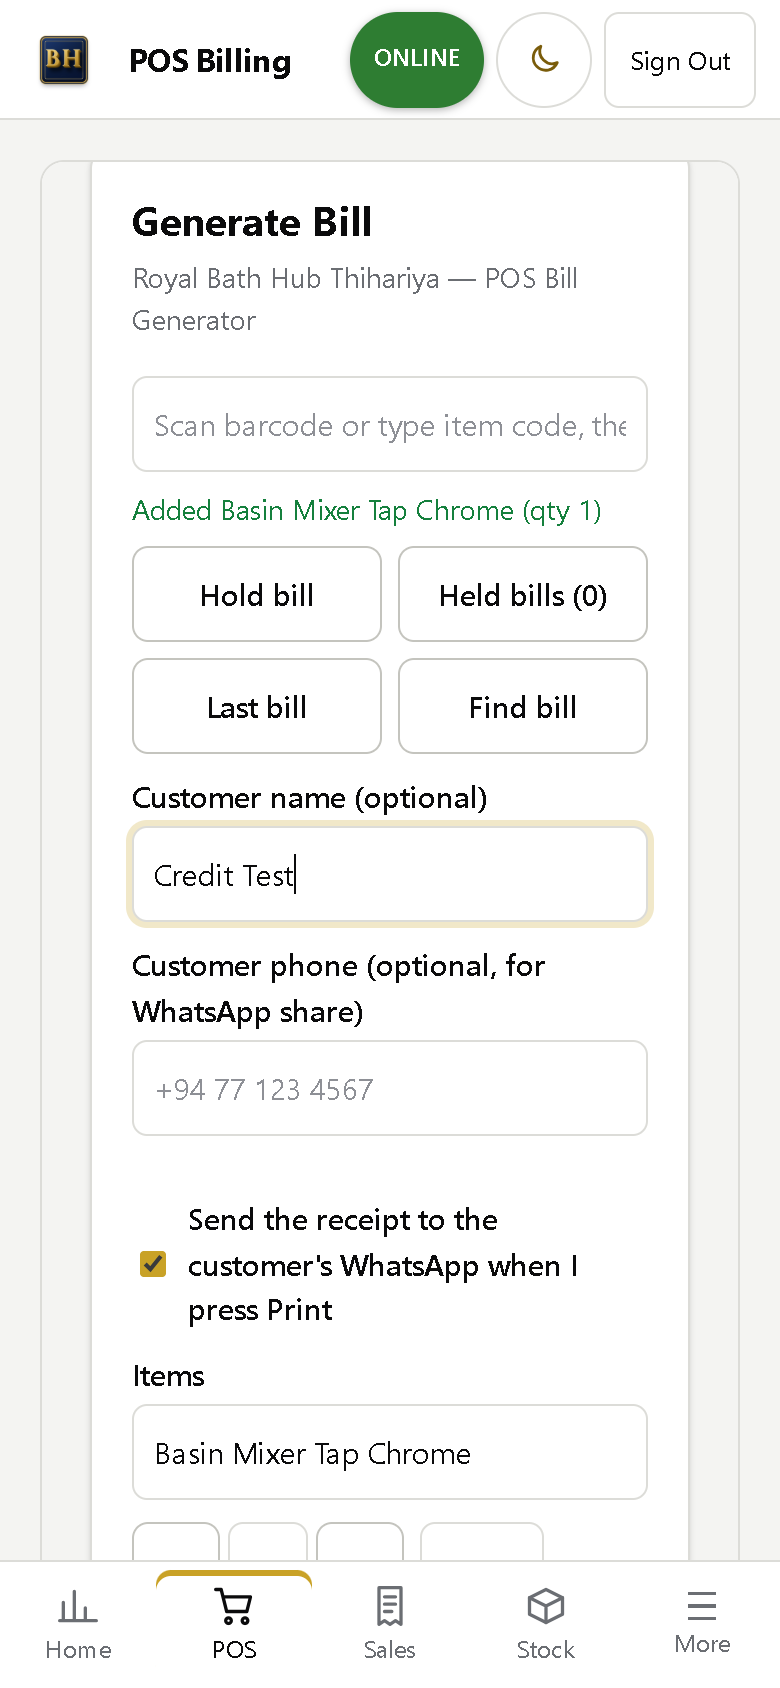
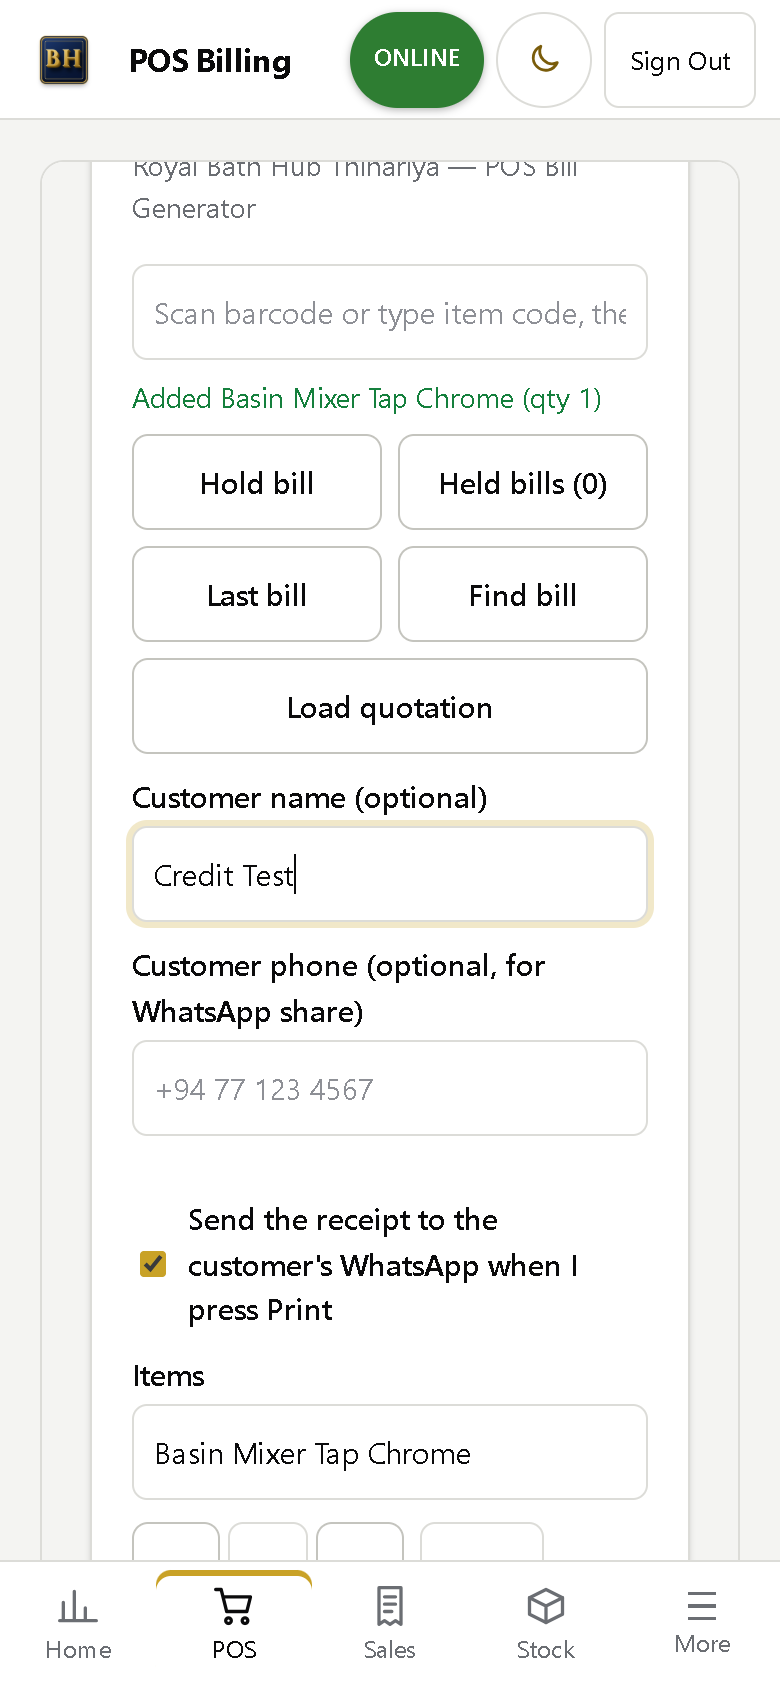
POS Part C: load a quotation into the cart (read only); records for the POS build queue

diff --git a/public/pos_billing.html b/public/pos_billing.html
@@ -152,15 +152,20 @@
     <div class="sub">Royal Bath Hub Thihariya — POS Bill Generator</div>
 
     <div class="pos-tools" id="posTools">
-      <div class="scan-row"><input type="text" id="scanBox" placeholder="Scan barcode or type item code, then Enter" autocomplete="off" aria-label="Scan barcode"></div>
+      <div class="scan-row"><input type="text" id="scanBox" placeholder="Scan barcode or type code + Enter" autocomplete="off" aria-label="Scan barcode"></div>
       <div class="scan-msg" id="scanMsg" role="status"></div>
       <div class="tool-row">
         <button type="button" id="holdBtn" onclick="holdBill()">Hold bill</button>
         <button type="button" id="heldBtn" onclick="toggleTool('heldPanel')">Held bills (0)</button>
         <button type="button" id="lastBtn" onclick="openLastBill()">Last bill</button>
         <button type="button" id="findBtn" onclick="toggleTool('findPanel')">Find bill</button>
+        <button type="button" id="quoteBtn" onclick="toggleTool('quotePanel')">Load quotation</button>
       </div>
       <div class="tool-panel" id="heldPanel"></div>
+      <div class="tool-panel" id="quotePanel">
+        <div class="find-row"><input type="text" id="quoteBox" placeholder="Filter by quote number or customer" autocomplete="off"></div>
+        <div id="quoteResults"></div>
+      </div>
       <div class="tool-panel" id="findPanel">
         <div class="find-row"><input type="text" id="findBox" placeholder="Bill number, e.g. 0007 or BHT-20261009-0007" autocomplete="off"><button type="button" class="mini-btn" onclick="findBills()">Find</button></div>
         <div id="findResults"></div>
@@ -674,9 +679,47 @@ async function scanCode() {
 document.getElementById('scanBox').addEventListener('keydown', e => { if (e.key === 'Enter') { e.preventDefault(); scanCode(); } });
 
 function toggleTool(id) {
-  ['heldPanel', 'findPanel'].forEach(p => { const el = document.getElementById(p); el.classList.toggle('open', p === id && !el.classList.contains('open')); });
+  ['heldPanel', 'findPanel', 'quotePanel'].forEach(p => { const el = document.getElementById(p); el.classList.toggle('open', p === id && !el.classList.contains('open')); });
   if (id === 'heldPanel') drawHeld();
+  if (id === 'quotePanel' && document.getElementById('quotePanel').classList.contains('open')) loadQuotes();
 }
+// ───────── LOAD QUOTATION (read only: the quotation is never changed; the bill is saved by the normal button) ─────────
+let _quotes = [];
+async function loadQuotes() {
+  const out = document.getElementById('quoteResults'); out.textContent = 'Loading…';
+  try { const r = await fetch('/api/quotations'); _quotes = r.ok ? await r.json() : []; } catch (e) { _quotes = []; }
+  drawQuotes();
+}
+function drawQuotes() {
+  const out = document.getElementById('quoteResults'), f = document.getElementById('quoteBox').value.trim().toLowerCase(), sym = branding.currency_symbol || 'Rs';
+  out.textContent = '';
+  const list = _quotes.filter(q => !f || String(q.quote_no || '').toLowerCase().includes(f) || String(q.customer_name || '').toLowerCase().includes(f)).slice(0, 15);
+  if (!list.length) { out.textContent = _quotes.length ? 'No quotation matches.' : 'No quotations.'; return; }
+  list.forEach(q => {
+    const row = document.createElement('div'); row.className = 't-row';
+    const info = document.createElement('span');
+    info.textContent = (q.quote_no || 'Q-' + q.id) + ' · ' + (q.customer_name || 'No customer') + ' · ' + sym + ' ' + Number(q.total || 0).toLocaleString() + ' · ' + (q.status || '');
+    const go = document.createElement('button'); go.type = 'button'; go.textContent = 'Load'; go.onclick = () => loadQuote(q.id);
+    row.append(info, go); out.appendChild(row);
+  });
+}
+async function loadQuote(id) {
+  try {
+    const r = await fetch('/api/quotations/' + id);
+    if (!r.ok) { scanMsg('Could not open that quotation.', 'err'); return; }
+    const c = PosCart.quotationToCart(await r.json());
+    if (!c.rows.length) { scanMsg('That quotation has no items.', 'err'); return; }
+    if (cartRows().some(x => x.name) && !confirm('The screen has items. Replace them with quotation ' + c.quote_no + '?')) return;
+    resetForm(true); setCartRows(c.rows);
+    document.getElementById('customerName').value = c.customer_name; document.getElementById('customerPhone').value = c.customer_phone;
+    document.getElementById('discountPct').value = c.discount_pct; updateCapHint();
+    document.getElementById('quotePanel').classList.remove('open');
+    const sym = branding.currency_symbol || 'Rs';
+    scanMsg('Loaded ' + c.quote_no + ': bill total ' + sym + ' ' + c.bill_total.toLocaleString() + (c.matches ? ' (same as the quotation).' : ' (the quotation said ' + sym + ' ' + c.quote_total.toLocaleString() + '. Check the prices.)'), c.matches ? 'ok' : 'err');
+  } catch (e) { scanMsg('Could not load the quotation.', 'err'); }
+}
+document.getElementById('quoteBox').addEventListener('input', drawQuotes);
+
 function drawHeld() {
   const list = PosCart.loadHeld(), panel = document.getElementById('heldPanel');
   document.getElementById('heldBtn').textContent = 'Held bills (' + list.length + ')';

diff --git a/tests/unit/posCart.test.js b/tests/unit/posCart.test.js
@@ -128,3 +128,34 @@ describe('payment types (screen side)', () => {
     expect(PosCart.makeHeld({ rows: [] }).pay_extra).toBeNull();
   });
 });
+
+describe('quotation to cart (read only)', () => {
+  const quote = { quote_no: 'Q-0004', customer_name: 'Mr Silva', customer_phone: '0771112222', discount: 1500, total: 13500,
+    items: [{ item_code: '1001', description: 'Marble Ivory Floor Tile 60x60', qty: '2', unit_price: '4500' }, { item_code: '2001', description: 'Basin Mixer Tap Chrome', qty: '1', unit_price: '6000' }] };
+  test('items become cart rows with numbers, customer comes across', () => {
+    const c = PosCart.quotationToCart(quote);
+    expect(c.rows).toEqual([{ item_code: '1001', name: 'Marble Ivory Floor Tile 60x60', qty: 2, unit_price: 4500 }, { item_code: '2001', name: 'Basin Mixer Tap Chrome', qty: 1, unit_price: 6000 }]);
+    expect(c).toMatchObject({ customer_name: 'Mr Silva', customer_phone: '0771112222', quote_no: 'Q-0004' });
+  });
+  test('the money discount becomes a percentage that gives the same bill total', () => {
+    const c = PosCart.quotationToCart(quote);               // subtotal 15000, discount 1500 = 10%
+    expect(c.discount_pct).toBe(10);
+    expect(c.bill_total).toBe(13500);
+    expect(c.matches).toBe(true);
+  });
+  test('an awkward discount (1000 of 15000 = 6.666...%) still gives the exact quote total, and says so when it does not match', () => {
+    const c = PosCart.quotationToCart({ ...quote, discount: 1000, total: 14000 });
+    expect(c.bill_total).toBe(14000); expect(c.matches).toBe(true);
+    const off = PosCart.quotationToCart({ ...quote, total: 99999 });
+    expect(off.matches).toBe(false);
+  });
+  test('no discount, no items, lines without a name', () => {
+    expect(PosCart.quotationToCart({ ...quote, discount: 0 }).discount_pct).toBe(0);
+    expect(PosCart.quotationToCart({ items: [] }).rows).toEqual([]);
+    expect(PosCart.quotationToCart({ items: [{ description: ' ', qty: 1, unit_price: 5 }] }).rows).toEqual([]);
+    expect(PosCart.quotationToCart(null).rows).toEqual([]);
+  });
+  test('the quotation object is not changed', () => {
+    const copy = JSON.parse(JSON.stringify(quote)); PosCart.quotationToCart(quote); expect(quote).toEqual(copy);
+  });
+});

diff --git a/public/pos-cart.js b/public/pos-cart.js
@@ -112,6 +112,19 @@
         return money2(money2(total) - (rows || []).reduce(function (a, r) { return a + money2(r.amount); }, 0));
     }
 
-    return { buildPayments: buildPayments, splitRemaining: splitRemaining, MAX_HELD: MAX_HELD, HELD_KEY: HELD_KEY, money2: money2, cleanCode: cleanCode, findExact: findExact, addScanned: addScanned,
+    // ---- QUOTATION TO CART (read only: the quotation is never changed) ----
+    // A quotation has a money discount; the POS bill has a percentage. The percentage is worked out so the bill total matches the quote total.
+    function quotationToCart(q) {
+        var rows = ((q && q.items) || []).map(function (i) {
+            return { item_code: String(i.item_code || '').trim(), name: String(i.description || i.item_code || '').trim(), qty: Number(i.qty) || 1, unit_price: Number(i.unit_price) || 0 };
+        }).filter(function (r) { return r.name; });
+        var sub = totals(rows, 0).subtotal, disc = Math.max(0, Number(q && q.discount) || 0);
+        var pct = sub > 0 ? Math.min(100, Math.round(disc / sub * 100 * 1e8) / 1e8) : 0;
+        var billTotal = totals(rows, pct).total, quoteTotal = money2(q && q.total);
+        return { rows: rows, customer_name: String((q && q.customer_name) || ''), customer_phone: String((q && q.customer_phone) || ''), discount_pct: pct,
+                 quote_no: String((q && q.quote_no) || ''), quote_total: quoteTotal, bill_total: billTotal, matches: billTotal === quoteTotal };
+    }
+
+    return { quotationToCart: quotationToCart, buildPayments: buildPayments, splitRemaining: splitRemaining, MAX_HELD: MAX_HELD, HELD_KEY: HELD_KEY, money2: money2, cleanCode: cleanCode, findExact: findExact, addScanned: addScanned,
              stepQty: stepQty, totals: totals, makeHeld: makeHeld, holdAdd: holdAdd, holdRemove: holdRemove, holdGet: holdGet, loadHeld: loadHeld, saveHeld: saveHeld };
 }));

diff --git a/AI_MEMORY/LATEST_REPORT.md b/AI_MEMORY/LATEST_REPORT.md
@@ -1,18 +1,17 @@
-# LATEST_REPORT 2026-10-09: Design 2 (black, ash, gold) + Build Queue 2 (earlier report: commit 4b2d878)
+# LATEST_REPORT 2026-10-09: POS build queue (Parts A, B, C, D) on branch work
 PROBLEMS
-- Your note said the site source is public/website/index.html. It is not: the Netlify site (title "Bath Hub | Bathroom Accessories...", #0B0B0C, orange #FF6A00) is a React/Tailwind app in E:\AI Sttuf\bathhub-website (own repo ajmalkhan6233-eng/bathhub-website). public/website/index.html is the shop app's /site page (navy, no orange). I restyled BOTH.
-- Netlify preview NOT done: no Netlify login or token on this PC. Deploy method UNVERIFIED (no netlify.toml; dist/ is not in git, so it looks like manual upload or CLI).
-- Daily-entry-v2: its colour swatch themes are now locked to Design 2; cash/card money figures keep their own colours. Settings still names the theme "Gold: Dark with brass" (text left alone).
-- Playwright/aikido tools could not connect; used puppeteer-core with local Chrome.
-- claude-mem: `repair` and `install` both ended "bun install ... spawn EINVAL" (Windows). I ran `bun install` by hand in its folder (exit ok). Needs a /login from Aj to process memory.
-DONE
-- 5 app screens: YES by Aj. Six navy pages wired (design2_legacy.css, SW v22). Shop /site page black+gold.
-- Jest before 1 failed/1379 passed, after 1 failed/1379 passed (127 suites; only tests/brain.test.js, old date).
-- POS re-check 390px + dev bill saved through the POS form: BHT-20261009-0007 (2500).
-- Netlify site restyled: orange elements 37 -> 0; Sinhala + Tamil checked; branch work pushed (eaffcd4). Screens: audit/design/site/*.png
-- Pushed to BATH-HUB work: a6117ab. Progress per screen: AI_MEMORY/PROGRESS.md
-NOT DONE
-- Netlify preview link (needs login). Publish to main link (waits for "publish site").
-UNVERIFIED: aikido/playwright data sent (no log).
+- Not done on purpose, needs Aj: cheque bills into the Cheques screen and credit bills into Credit & Aging (golden core / credit totals). Question + answer to paste is in OPEN_ITEMS.
+- Small gaps: end-of-day summary shows a split bill as one "split" line; the PDF receipt prints SPLIT without the lines; a loaded quotation is not marked as billed (can be loaded twice).
+- UNVERIFIED: a real barcode scanner (tested by typing the code + Enter, which is what scanners send).
+- Playwright tool not connected this session: used puppeteer-core with local Chrome at 390px.
+- tests/brain.test.js still fails (old date, not mine).
+DONE (all VERIFIED: tests and 390px browser checks really ran, dev DB only, nothing published)
+- A: scan box (adds qty 1, again +1, unknown code = message), Hold/Held (max 10, browser only, 10 refused at 11), Last bill + Find bill (read only), qty +/- (44px, no sideways scroll). 15/15 browser checks. Commit 2387806.
+- B: cheque, credit, split via new table pos_bill_payments (no golden-core change). Payments must equal the total to the cent. Credit is its own bucket, never cash. Void bills left out; discount cap still enforced; bills with payment rows are voided, not edited. 16 server tests + 16/16 browser checks. Commit 35cd52f.
+- C: "Load quotation" fills the cart and customer, discount % worked out to match the quote total; quotation unchanged. 7/7 browser checks (Sinhala/Tamil name kept).
+- Jest: before 1 failed/1396 passed (128 suites, after A); final 1 failed/1424 passed (129 suites). No growth. 17 + 12 cart tests, 16 payment tests.
+- Dev test bills saved from the POS form: BHT-20261009-0008 (A), -0010/-0011/-0012 (cheque/credit/split), -0017 (quotation).
+- Screens: audit/pos/*.png. Progress: AI_MEMORY/PROGRESS.md. Plan: AI_MEMORY/POS_PAYMENTS_PLAN.md
+NOT DONE: nothing skipped. Website and publishing untouched.
 Status: NEEDS YOU
-Next: in a terminal run: npx netlify-cli login   then:  "E:\AI Sttuf\bathhub-website\preview-site.cmd"   (prints the preview link). Later, after you say "publish site":  "E:\AI Sttuf\bathhub-website\publish-site.cmd"
+Next: look at audit/pos on the phone (YES/NO per screen) and answer the Cheques / Credit & Aging question in OPEN_ITEMS.

diff --git a/AI_MEMORY/HANDOFF.md b/AI_MEMORY/HANDOFF.md
@@ -1,11 +1,9 @@
-# HANDOFF (2026-10-09, Build Queue 2 done)
-- Branch `work` = Royal Bath Hub output (never master). Latest report: AI_MEMORY/LATEST_REPORT.md. Bug list: AI_MEMORY/BUG_LIST.md.
-- Part A DONE+VERIFIED: open days (no day sheet) now show POS bills in Daily Sales + Dashboard (routes/daily_sales_live.js, read-only, 9 tests, 390px check). Day sheet always wins; bills shown as "reference, not added".
-- Part B DONE (audit only): 10 bugs listed, nothing fixed. Part C CANCELLED by Aj (design recovery replaced by Design 2 reskin).
-- Part D: bun 1.4.2 installed; claude-mem Connected (data in C:\Users\Sony\.claude-mem, local). Its worker says "SDK authentication failed, run /login": memory is queued, not processed until Aj logs in.
-- Dev setup used: throwaway Postgres on port 5433 (db bathco_test, folder in session scratchpad), dev app on port 3199. Never the live DB (5432) or live app (3100).
-- Global CLAUDE.md (not in a repo): 144 lines. 6 plugins; aikido + playwright kept (Aj's decision). BATH-HUB public on purpose.
-- Open (Aj later): rename BATHCO text in code (~121 files) and the GitHub repo.
-- Design 2 live in the app (tokens in public/design2_tokens.css + design2_legacy.css; rollback: git checkout design3-backup). Website: branch work in E:AI Sttufbathhub-website, preview/publish scripts there.
-- Ideas: Android/Play Store: PWA first, decide after bug sweep. In-app editing agent: skipped for now (Claude Code is always connected).
-- Aj next physical action: say which bugs in BUG_LIST to fix; say YES/NO per design screenshot when the Design 2 reskin is ready.
+# HANDOFF (2026-10-09, POS build queue done)
+- Branch `work` = Royal Bath Hub output (never master). Report: AI_MEMORY/LATEST_REPORT.md. Per-screen progress: AI_MEMORY/PROGRESS.md.
+- POS build queue (Aj GO): Part A DONE (barcode scan, hold/resume, Last bill + Find bill, qty +/- buttons), Part B DONE (cheque, credit, split; new table pos_bill_payments; plan in AI_MEMORY/POS_PAYMENTS_PLAN.md), Part C DONE (Load quotation, read only). Nothing skipped. Stock deduction stays OFF (POS_DEDUCT_STOCK).
+- Not done on purpose (needs Aj): cheque bills into the Cheques screen, credit bills into Credit & Aging (golden core / credit totals).
+- Held bills live only in the browser of that device (max 10), never in the database.
+- Design 2 (black, ash, gold) is live in the app: design2_tokens.css + design2_legacy.css, rollback: git checkout design3-backup. Website: branch work in E:\AI Sttuf\bathhub-website; Netlify preview waits for Aj's Netlify login (preview-site.cmd). Not published.
+- Dev setup: throwaway Postgres 5433 (bathco_test) + dev app 3199 from the session scratchpad; never the live DB or app.
+- Backups: branches backup-before-pos-build, backup-before-design2, tag design3-backup.
+- Aj next physical action: look at audit/pos/*.png on the phone (YES/NO per screen); answer the Cheques / Credit & Aging question in OPEN_ITEMS; Netlify login for the site preview.

diff --git a/AI_MEMORY/OPEN_ITEMS.md b/AI_MEMORY/OPEN_ITEMS.md
@@ -18,5 +18,9 @@
 - Research items NOT installed (approve one by one if wanted): Agent Skills (agentskills.io, anthropics/skills), awesome list (ComposioHQ, unvetted, reading only), image to code (Figma plugin, needs Figma seat)
 
 - Bugs found by the sweep (offline review screen, /api/staff loans, dev schema drift, hyperspace-theme.js missing, vendor apostrophe, barcode menu, npm audit): see AI_MEMORY/BUG_LIST.md, Aj approves fixes
-- Android/Play Store idea: PWA first, decide after the bug sweep. In-app editing agent: skipped for now (Claude Code is always connected)
 - Aj: run /login once in Claude Code so claude-mem can process its queued memory- Aj: Netlify login (npx netlify-cli login), then run preview-site.cmd, look at the link, say "publish site" or not
+
+- Android/Play Store idea: PWA first, decide after the bug sweep. In-app editing agent: skipped for now (Claude Code is always connected)
+- Aj decide (POS): should a credit bill create a row in Credit & Aging, and a cheque bill a row in Cheques? Paste: YES credit and cheque | YES credit only | NO keep them on the bill only
+- POS small gaps: the end-of-day summary (/api/pos-bills/summary) shows a split bill as one "split" line; the PDF receipt prints "SPLIT" without the lines; a loaded quotation is not marked as billed
+- Aj: try the scan box with the real barcode scanner (keyboard type scanners: it types the code then Enter); tested only by typing

diff --git a/AI_MEMORY/PROGRESS.md b/AI_MEMORY/PROGRESS.md
@@ -32,3 +32,5 @@ POS BUILD QUEUE (Aj said GO). 390px only. Screenshots in audit/pos/. Backup bran
 - Part A4 qty +/- buttons, 44px targets, no sideways scroll: DONE: audit/pos/cart_390.png ; dev test bill saved from the POS form (BHT-20261009-0008): audit/pos/saved_bill_390.png
 - Part B payment types: DONE (new table pos_bill_payments, no golden-core change): cheque, credit, split + cash unchanged; daily sales counts them per method; edit of such bills blocked (void and re-enter). Plan: AI_MEMORY/POS_PAYMENTS_PLAN.md. Screens: audit/pos/pay_cheque_390.png, pay_credit_390.png, pay_split_390.png, pay_split_mismatch_390.png, pay_split_receipt_390.png, pay_dailysales_390.png
 - Part B NEXT STEP (needs Aj): cheque bills into the Cheques screen and credit bills into Credit & Aging (golden core / changes credit totals): not done on purpose.
+- Part C quotation to bill ("Load quotation", read only): DONE: audit/pos/quote_list_390.png, quote_loaded_390.png, quote_billed_390.png (bill saved by the normal button at the quote total; quotation unchanged; the quotation is NOT marked as billed, so it can be loaded twice)
+- Part D record: DONE (this file, HANDOFF, OPEN_ITEMS, LATEST_REPORT). Nothing published or deployed. Website not touched.
